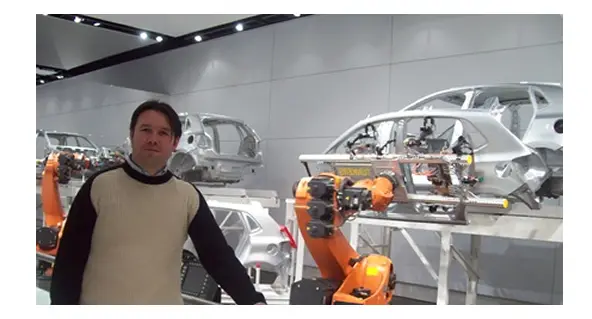
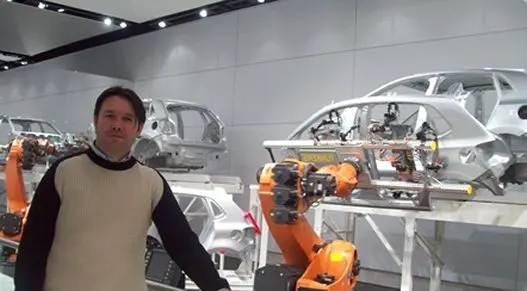
Recorta los bordes blancos de la foto de Investigador Senior y ajusta su encuadre

diff --git a/site/styles.css b/site/styles.css
@@ -1520,3 +1520,4 @@ body.subpage .preloader .clear-loading { z-index: 2; }
 .r-badges > div:hover::before { opacity: .8; filter: brightness(.5) saturate(.75) hue-rotate(200deg) contrast(1.15); }
 .r-badges > div::after { background: linear-gradient(200deg, rgba(5,12,35,.04) 25%, rgba(6,14,38,.5) 100%); }
 .r-badges b, .r-badges span { text-shadow: 0 1px 3px rgba(0,0,0,.55), 0 2px 14px rgba(0,0,0,.45); }
+.r-badges > div.rb1::before { background-image: url(img/investigador-senior.webp?v=2); background-position: 30% 35%; }

diff --git a/site/investigacion.html b/site/investigacion.html
@@ -12,7 +12,7 @@
   <link rel="icon" type="image/webp" href="img/logo-imagen.webp">
   <link rel="preload" as="image" href="img/logo-imagen.webp" type="image/webp">
   <link rel="preload" as="image" href="img/banner.webp" type="image/webp">
-  <link rel="stylesheet" href="styles.css?v=30">
+  <link rel="stylesheet" href="styles.css?v=31">
   <script>try{var t=localStorage.getItem('tema');if(t==='dark'||t==='light')document.documentElement.setAttribute('data-theme',t)}catch(e){}</script>
 </head>
 <body class="subpage">
